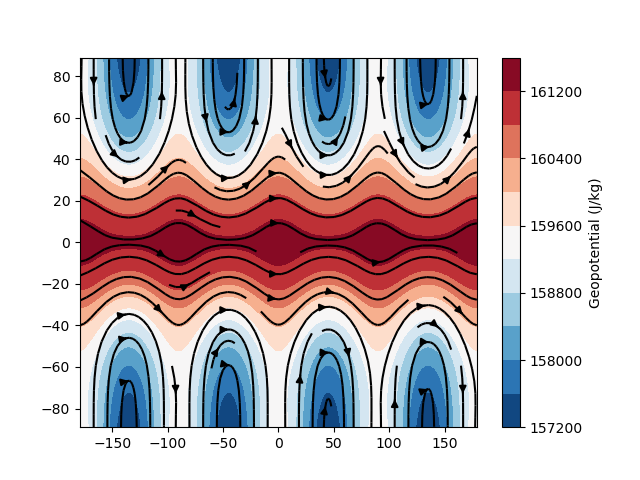
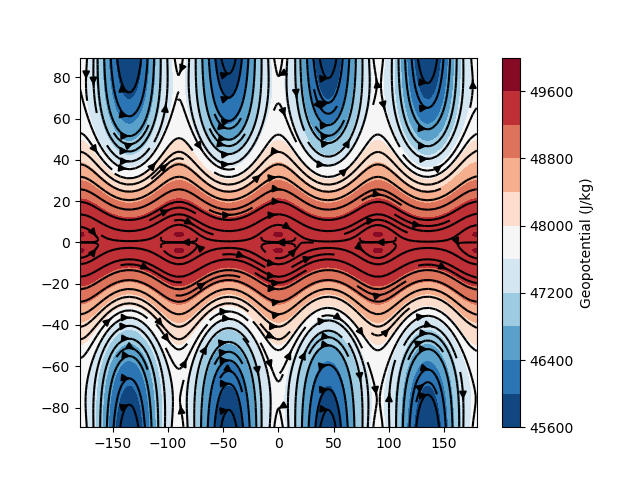
geostrophic flow pattern is reasonable

diff --git a/pyPESE/balance_diagnosis/geostrophic_balance/geostrophic_balance_global.py b/pyPESE/balance_diagnosis/geostrophic_balance/geostrophic_balance_global.py
@@ -1051,7 +1051,7 @@ def SANITY_CHECK_geostrophic_flow_diagnosis():
     from scipy.optimize import minimize
 
     # Grid settings (must be even numbers)
-    nlat = 90
+    nlat = 180
     nlon = nlat * 2
     nlvl = 11
 
@@ -1097,16 +1097,14 @@ def SANITY_CHECK_geostrophic_flow_diagnosis():
 
     # Visualize geostrophic flow and geopotential height
     geopot3d = 9.81 * height3d
-    cnf = plt.contourf( lon1d, lat1d, geopot3d[:,:,10].T, 11, cmap = 'RdBu_r')
+    cnf = plt.contourf( lon1d, lat1d, geopot3d[:,:,5].T, 11, cmap = 'RdBu_r')
     cbar = plt.colorbar(cnf)
     cbar.ax.set_ylabel('Geopotential (J/kg)')
-    norm_u = u3d / np.sqrt( u3d**2 + v3d**2)
-    norm_v = v3d / np.sqrt( u3d**2 + v3d**2)
     # plt.quiver( lonmesh[::], latmesh, norm_u[:,:,2], norm_v[:,:,2])
     plt.streamplot( lon1d, lat1d, 
-        (u3d[:,:,5]).T, # / (111000 * np.cos( latmesh*PI/180 ))).T, 
-        (v3d[:,:,5]).T, #/111000).T,
-         color='k', density=1
+        (u3d[:,:,5] / (111000 * np.cos( latmesh*PI/180 ))).T, 
+        (v3d[:,:,5] / 111000).T,
+         color='k', density=2
     )
     plt.savefig('check_geostrophic_flow.png')
     plt.close()
